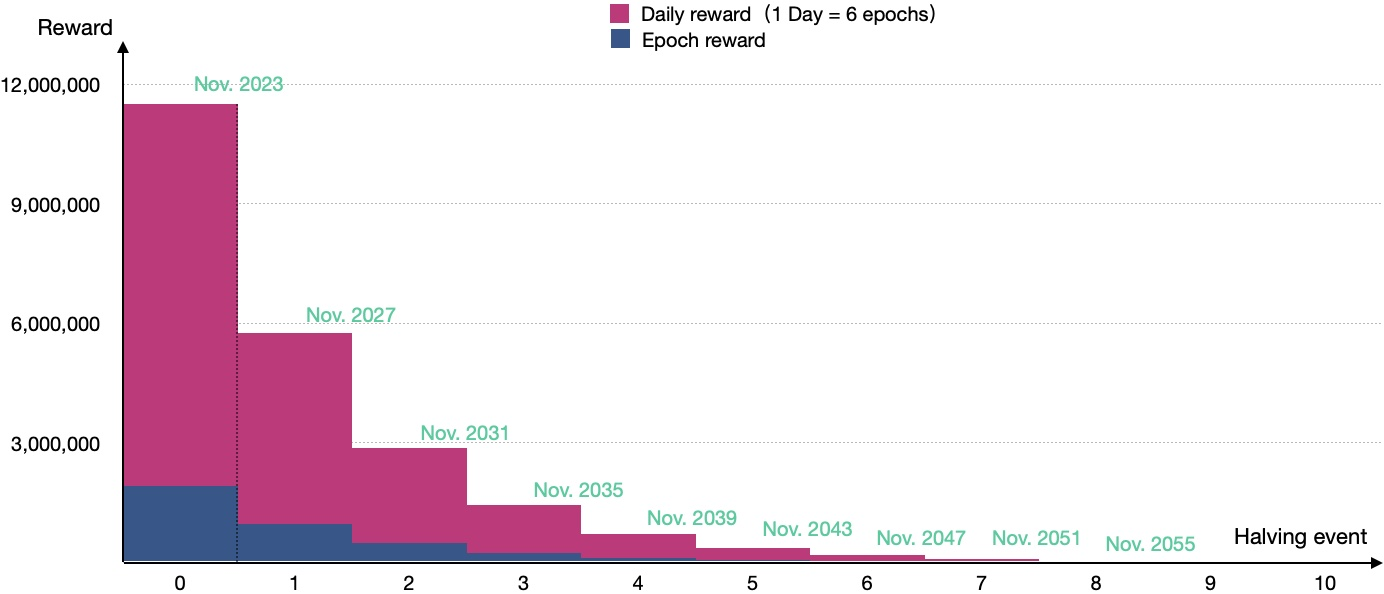
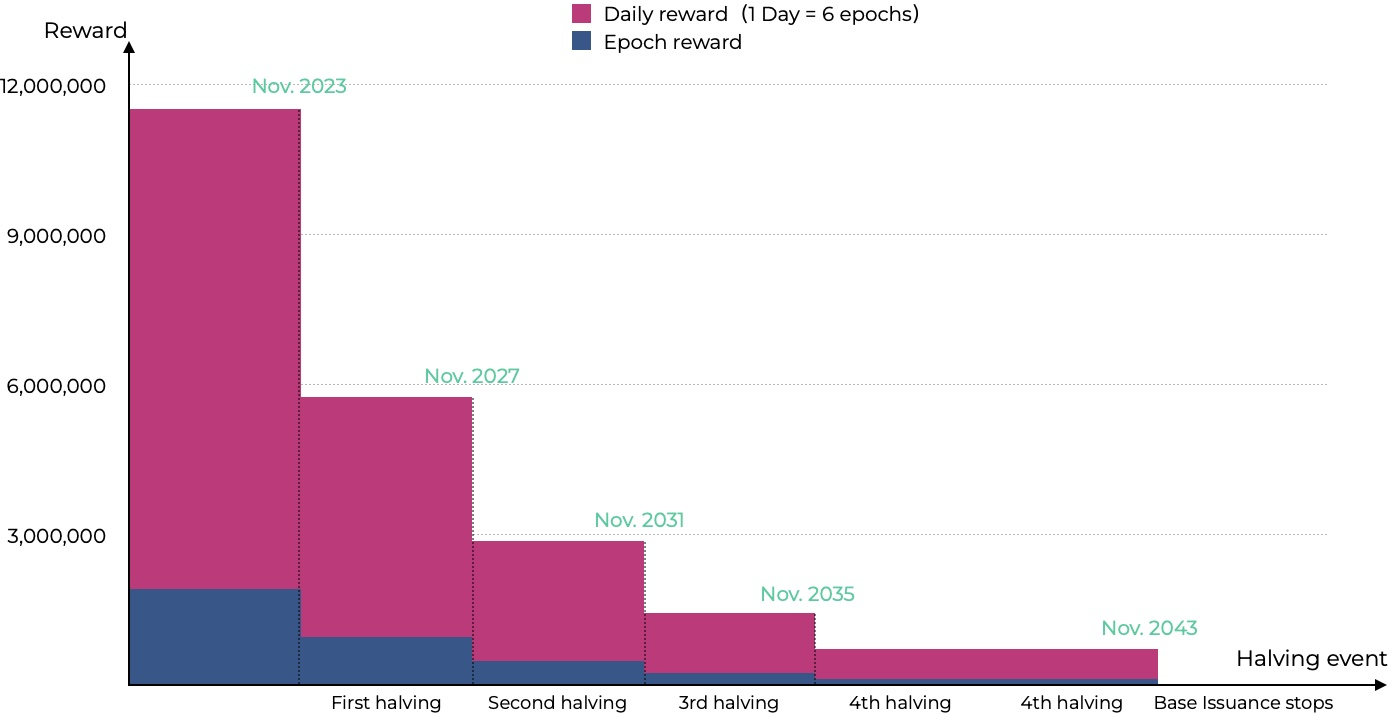
if the reward of a block is less than 61 ckb, then the reward for this block will not be issued

Changed region(s): [[0.0, 0.0303, 1.0, 1.0], [0.4039, 0.0, 0.6835, 0.0909]]

diff --git a/website/docs/reference/halving.md b/website/docs/reference/halving.md
@@ -18,22 +18,20 @@ Epochs per halving is `4 * 365 * (24 / 4)` = `8760`, and the Nth halving of CKBy
 
 So, The CKByte halving event occurs on the specified epoch, e.g. 8760, 17520. 
 
-## When will CKByte be halved?
-The following are the next 10 halving windows of CKBytes, and the corresponding base issuance rewards.
+## How many times halving will the block rewards stop?
 
+The consensus protocol does not specify how many times it will stop, but if the reward of a block is less than 61 ckb, then the reward for this block will not be issued. So if we count up to 1800 blocks in an epoch, **after the 4th halving**, then the base block rewards may not be issued.
 
-|Event          |Date                  |Epoch number      |Epoch reward  |Daily reward  |Total new CKB between events  |
-|---------------|----------------------|------------------|-------------:|--------------:|----------------------------:|
-|Nervos launches|16 November 2019      |0 (genesis epoch) |1,917,808 CKB |11,506,849 CKB |16,800,000,000 CKB           |
-|**First halving**  |**Expected November 2023**|**8,760**             |**958,904 CKB**   |**5,753,424 CKB**  |**8,400,000,000 CKB**            |
-|Second halving |Expected November 2027|17,520            |479,452 CKB   |2,876,712 CKB  |4,200,000,000 CKB            |
-|3rd halving    |Expected November 2031|26,280            |239,726 CKB   |1,438,356 CKB  |2,100,000,000 CKB            |
-|4th halving    |Expected November 2035|35,040            |119,863 CKB   |719,178 CKB    |1,050,000,000 CKB            |
-|5th having     |Expected November 2039|43,800            |59,932 CKB    |359,589 CKB    |525,000,000 CKB              |
-|6th having     |Expected November 2043|52,560            |29,966 CKB    |179,794 CKB    |262,500,000 CKB              |
-|7th having     |Expected November 2047|61,320            |14,983 CKB    |89,897 CKB     |131,250,000 CKB              |
-|8th having     |Expected November 2051|70,080            |7,491 CKB     |44,948 CKB     |65,625,000 CKB               |
-|9th having     |Expected November 2055|78,840            |3,746 CKB     |22,474 CKB     |32,812,500 CKB               |
-|10th having    |Expected November 2059|87,600            |1,873 CKB     |11,237 CKB     |16,406,250 CKB               |
+The chart below details the next halving schedule and the corresponding base issuance rewards.
+
+|Event              |Date                  |Epoch number      |Epoch reward |Block reward(If we count up to 1800 blocks in an epoch)|Daily reward  |Total new CKB between events|
+|-------------------|----------------------|------------------|-------------|-------------------------------------------------------:|--------------:|----------------------------:|
+|Nervos launches    |16 November 2019      |0 (genesis epoch) |1,917,808 CKB|1,065 CKB                                                  |11,506,849 CKB|16,800,000,000 CKB          |
+|**First halving**      |**Expected November 2023**|**8,760**             |**958,904 CKB**  |**533 CKB**                                                    |**5,753,424 CKB** |**8,400,000,000 CKB**           |
+|Second halving     |Expected November 2027|17,520            |479,452 CKB  |266 CKB                                                   |2,876,712 CKB |4,200,000,000 CKB           |
+|3rd halving        |Expected November 2031|26,280            |239,726 CKB  |133 CKB                                                    |1,438,356 CKB |2,100,000,000 CKB           |
+|4th halving        |Expected November 2035|35,040            |119,863 CKB  |67 CKB                                                     |719,178 CKB   |2,100,000,000 CKB           |
+|Base Issuance Stops|Expected November 2043|52,560            |0            |0 CKB                                                      |0             |0                           |
+
 
 <img src={useBaseUrl("img/halving-rewards.jpg")}/>
